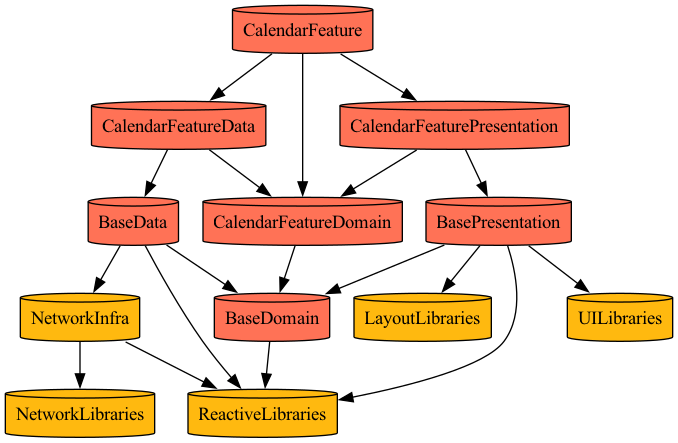
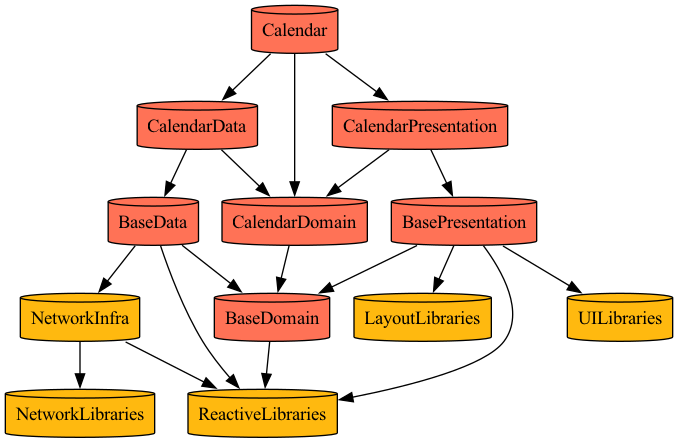
🔧 Fix: 홈 화면 칼로리 원형 그래프 x 중앙 정렬 (#41)
* 🔧 Fix: 홈 화면 칼로리 원형 그래프 x 중앙 정렬

HStack + Spacer 구조에서 스트릭 배지 유무에 따라 원형 그래프가
중앙에서 벗어나는 문제를 overlay 방식으로 수정

* 🔧 Fix: 칼로리 요약 카드 배경 전체 너비 복원

HStack 제거 후 줄어든 glassEffect 배경 너비를 frame(maxWidth: .infinity)로 복원

* 🏗 Chore: 미사용 Dashboard 모듈 제거 및 Makefile 정리

- Dashboard 모듈 디렉토리 및 모든 참조 제거 (Dependency, README)
- Makefile에 누락된 Base, Tab 그래프 타겟 추가
- settings-graph echo 오타 수정

---------

diff --git a/Projects/Feature/Home/Presentation/Sources/HomeView.swift b/Projects/Feature/Home/Presentation/Sources/HomeView.swift
@@ -130,47 +130,41 @@ public struct HomeView: View {
 
     private func calorieSummarySection(summary: HomeDailySummary) -> some View {
         VStack(spacing: 16) {
-            HStack(alignment: .top) {
-                Spacer()
+            // 원형 프로그레스
+            ZStack {
+                Circle()
+                    .stroke(Color.gray.opacity(0.2), lineWidth: 16)
 
-                // 원형 프로그레스
-                ZStack {
-                    Circle()
-                        .stroke(Color.gray.opacity(0.2), lineWidth: 16)
+                Circle()
+                    .trim(from: 0, to: min(summary.calorieProgress, 1.0))
+                    .stroke(
+                        calorieColor(for: summary.calorieStatus),
+                        style: StrokeStyle(lineWidth: 16, lineCap: .round)
+                    )
+                    .rotationEffect(.degrees(-90))
+                    .animation(.easeOut(duration: 0.5), value: summary.calorieProgress)
 
-                    Circle()
-                        .trim(from: 0, to: min(summary.calorieProgress, 1.0))
-                        .stroke(
-                            calorieColor(for: summary.calorieStatus),
-                            style: StrokeStyle(lineWidth: 16, lineCap: .round)
-                        )
-                        .rotationEffect(.degrees(-90))
-                        .animation(.easeOut(duration: 0.5), value: summary.calorieProgress)
+                VStack(spacing: 2) {
+                    Text("\(summary.totalCalories)")
+                        .font(.system(size: 32, weight: .bold))
 
-                    VStack(spacing: 2) {
-                        Text("\(summary.totalCalories)")
-                            .font(.system(size: 32, weight: .bold))
+                    Text("/ \(summary.goalCalories) kcal")
+                        .font(.caption)
+                        .foregroundStyle(.secondary)
 
-                        Text("/ \(summary.goalCalories) kcal")
-                            .font(.caption)
-                            .foregroundStyle(.secondary)
-
-                        Text(summary.calorieStatus.displayName)
-                            .font(.caption)
-                            .fontWeight(.medium)
-                            .foregroundStyle(calorieColor(for: summary.calorieStatus))
-                    }
+                    Text(summary.calorieStatus.displayName)
+                        .font(.caption)
+                        .fontWeight(.medium)
+                        .foregroundStyle(calorieColor(for: summary.calorieStatus))
                 }
-                .frame(width: 160, height: 160)
-
-                Spacer()
-
+            }
+            .frame(width: 160, height: 160)
+            .overlay(alignment: .topTrailing) {
                 // 스트릭 배지
                 if summary.streakDays > 0 {
                     HomeStreakBadge(days: summary.streakDays)
+                        .offset(x: 60, y: -8)
                 }
-
-                Spacer()
             }
 
             // 남은 칼로리 / 운동 소모
@@ -204,6 +198,7 @@ public struct HomeView: View {
                 }
             }
         }
+        .frame(maxWidth: .infinity)
         .padding()
         .glassEffect(.regular, in: .rect(cornerRadius: 16))
     }

diff --git a/Tuist/ProjectDescriptionHelpers/Dependencies/Dependency+Project.swift b/Tuist/ProjectDescriptionHelpers/Dependencies/Dependency+Project.swift
@@ -29,7 +29,6 @@ public enum ProjectDomain: String {
     case Settings
 
     // Healthcare Features
-    case Dashboard
     case Meal
     case Weight
     case Exercise
@@ -115,11 +114,6 @@ public extension TargetDependency.Project.Feature {
     )
 
     // Healthcare Features
-    static let Dashboard: TargetDependency = .project(
-        domain: .Dashboard,
-        name: "Dashboard"
-    )
-
     static let Meal: TargetDependency = .project(
         domain: .Meal,
         name: "Meal"
@@ -189,11 +183,6 @@ public extension TargetDependency.Project.Feature.Data {
     )
 
     // Healthcare Features Data
-    static let DashboardData: TargetDependency = .project(
-        domain: .Dashboard,
-        name: "DashboardData"
-    )
-
     static let MealData: TargetDependency = .project(
         domain: .Meal,
         name: "MealData"
@@ -263,11 +252,6 @@ public extension TargetDependency.Project.Feature.Domain {
     )
 
     // Healthcare Features Domain
-    static let DashboardDomain: TargetDependency = .project(
-        domain: .Dashboard,
-        name: "DashboardDomain"
-    )
-
     static let MealDomain: TargetDependency = .project(
         domain: .Meal,
         name: "MealDomain"
@@ -337,11 +321,6 @@ public extension TargetDependency.Project.Feature.Presentation {
     )
 
     // Healthcare Features Presentation
-    static let DashboardPresentation: TargetDependency = .project(
-        domain: .Dashboard,
-        name: "DashboardPresentation"
-    )
-
     static let MealPresentation: TargetDependency = .project(
         domain: .Meal,
         name: "MealPresentation"
